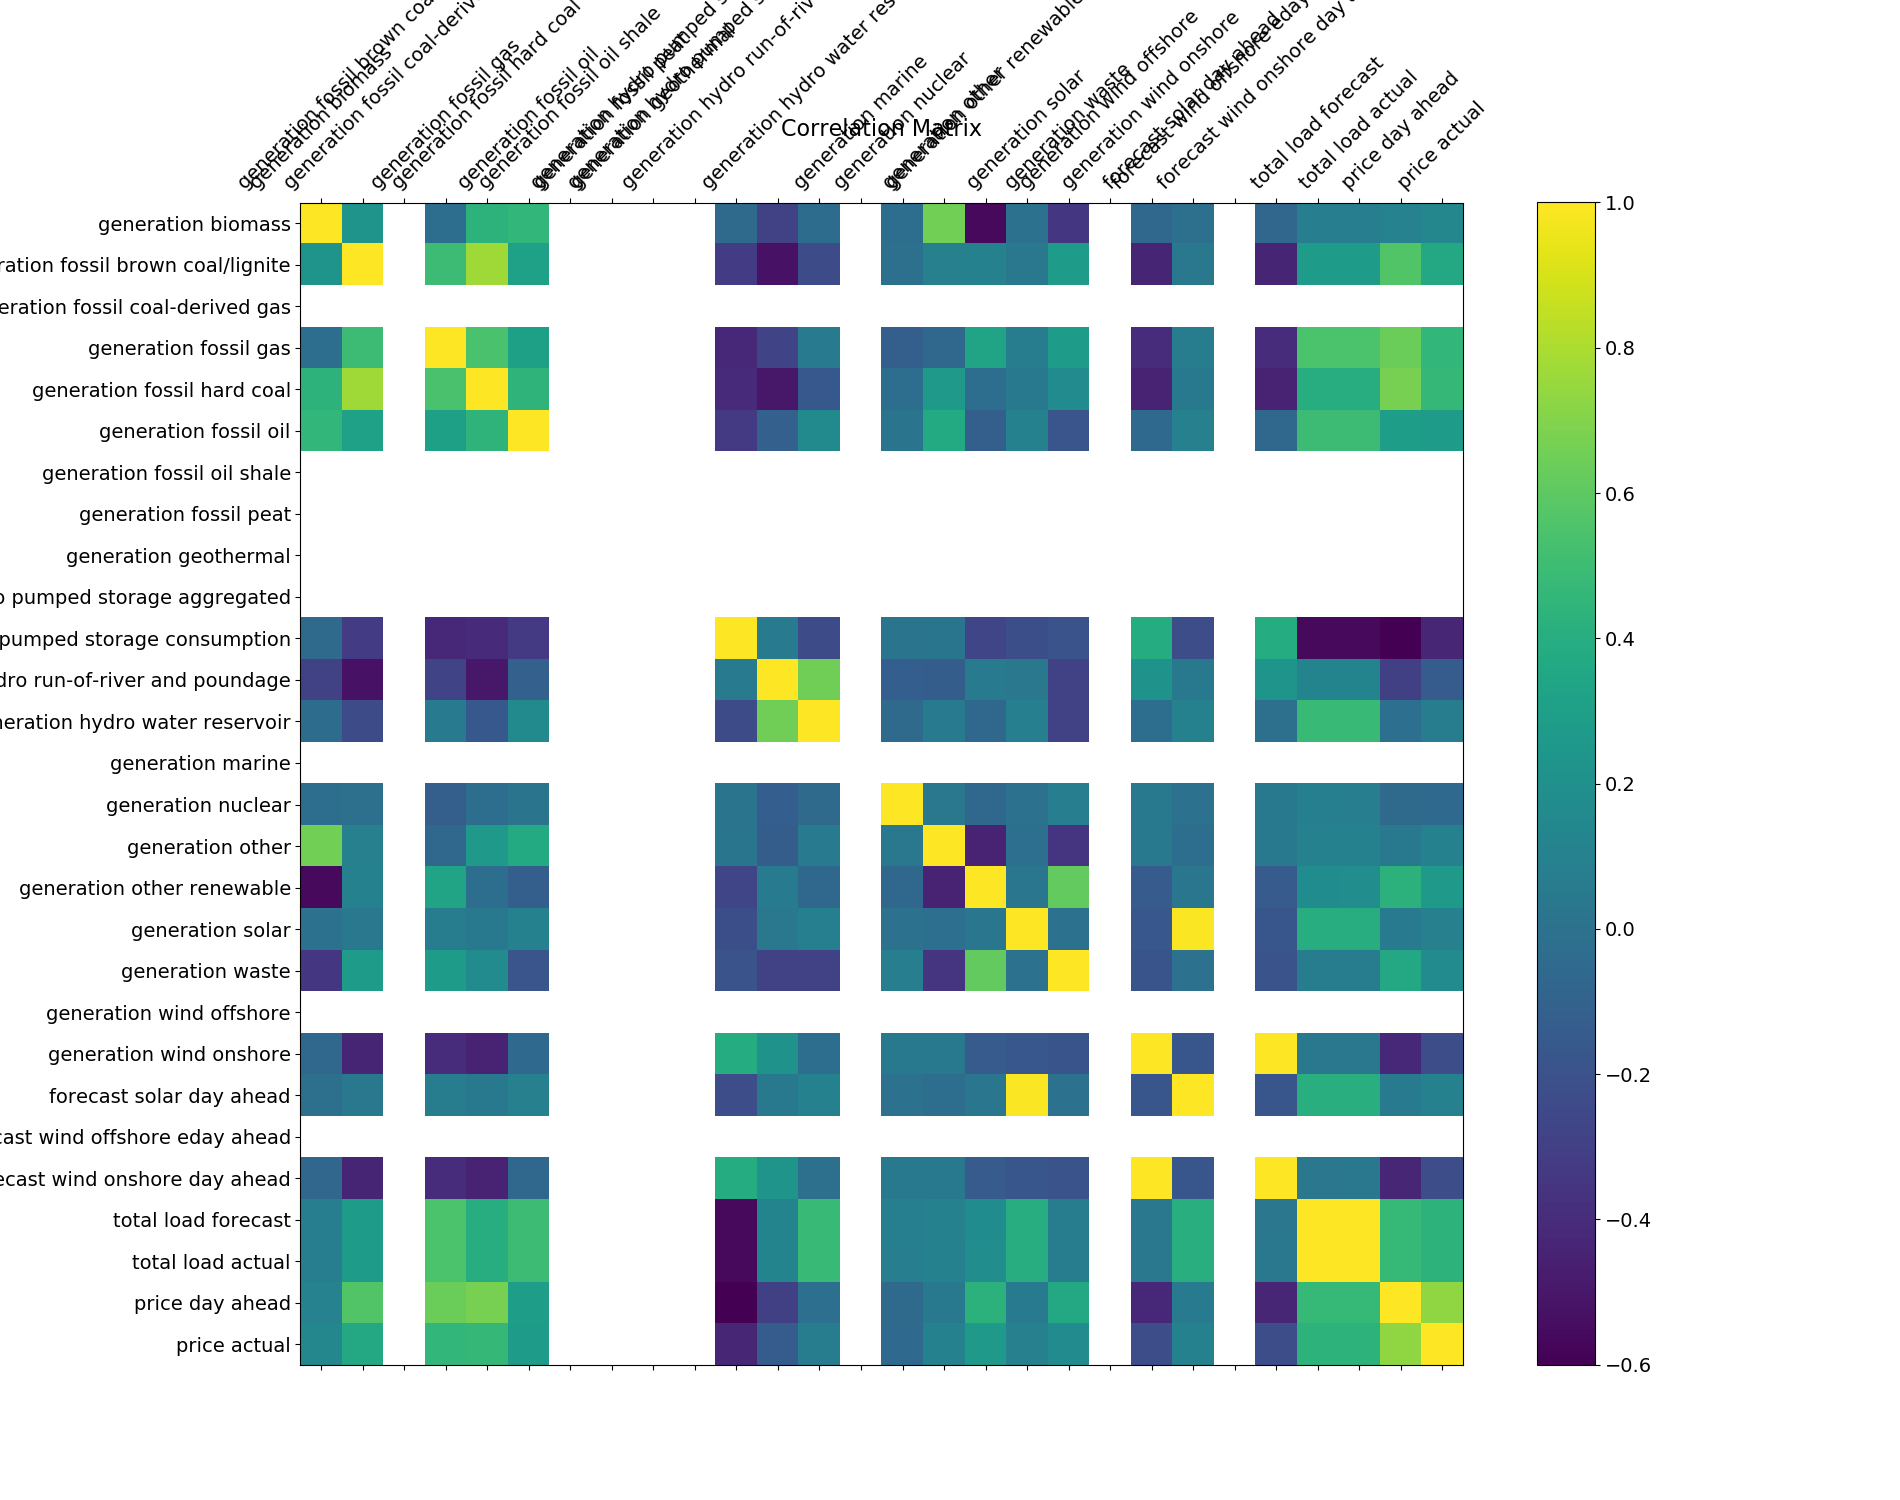
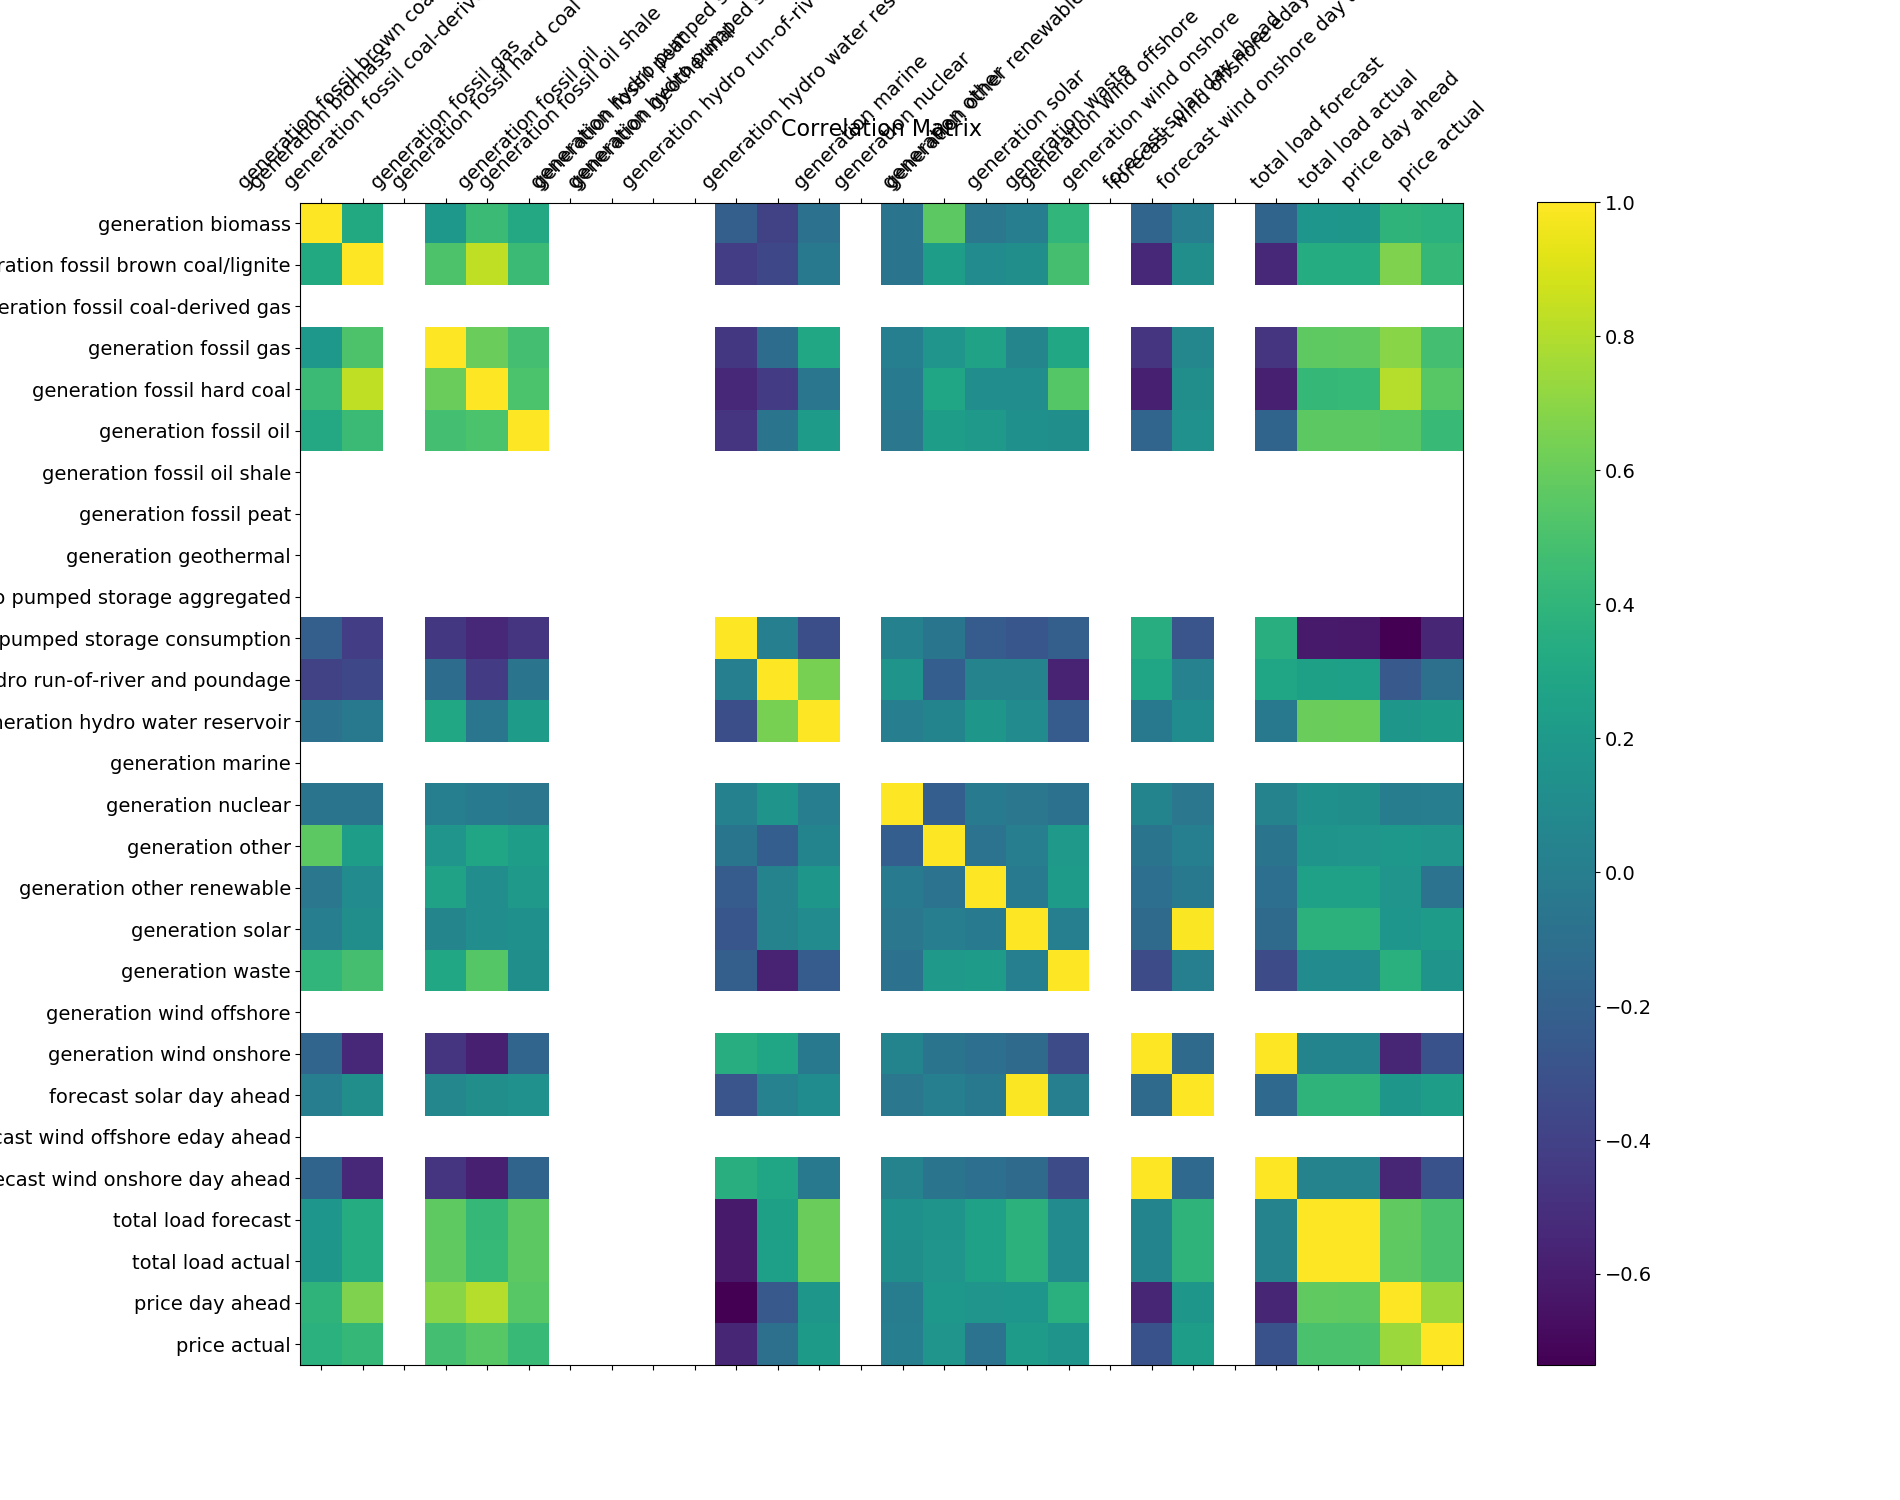
transformations

diff --git a/src/main_script.py b/src/main_script.py
@@ -1,7 +1,7 @@
 import pandas as pd
 import numpy as np
 import matplotlib
-matplotlib.use("Agg")
+# matplotlib.use("Agg")
 import matplotlib.pyplot as plt
 from sklearn.model_selection import train_test_split
 import importlib
@@ -37,17 +37,35 @@ if __name__ == '__main__':
     #make index a datetime object
     energy.reset_index()
     weather.reset_index()
+
+    plot_corr_matrix(energy.df)
+    plt.savefig('images/energy_corr.png')
+    # plt.show()
+    plt.close()
+    plot_corr_matrix(weather.df)
+    plt.savefig('images/weather_corr.png')
+    # plt.show()
+    plt.close()
     
+    # Transformations
     print('\nPerforming transformations')
+    weather_cols = ['weather_icon', 'weather_description', 'weather_main', 'weather_id']
+    weather.clean_categoricals(weather_cols)
+    energy_cols = []
+
+
+
     merged_df = energy.merge_dfs(weather.df)
     weather.consolidate('dt_iso')
     merged_by_date = energy.merge_dfs(weather.grouped_avg)
+    
 
-    print('Creating train, test, and holdout sets')
+
+    print('\nCreating train, test, and holdout sets')
     merged_by_date.getXy('price actual')
     merged_by_date.create_holdout()
 
-    print('\nWriting train, test, and holdouts to filesystem')
+    # print('\nWriting train, test, and holdouts to filesystem')
 
     train_test_split_holdout_list = [merged_by_date.X_train, merged_by_date.X_test, 
                                     merged_by_date.X_holdout, merged_by_date.y_train, 
@@ -56,28 +74,29 @@ if __name__ == '__main__':
     ttsh_filenames = ['X_train', 'X_test', 'X_holdout', 'y_train', 
                     'y_test', 'y_holdout']
 
-    for (i, fname) in zip(train_test_split_holdout_list, ttsh_filenames):
-            i.to_csv(f"data/{fname}.csv")
+
+    # Dont need to to this everytime I run the script for EDA
+    # for (i, fname) in zip(train_test_split_holdout_list, ttsh_filenames):
+    #         i.to_csv(f"data/{fname}.csv")
    
-    for (i, fname) in zip(train_test_split_holdout_list, ttsh_filenames):
-        i.to_csv(f's3://ajzcap2/{fname}.csv')
+    # for (i, fname) in zip(train_test_split_holdout_list, ttsh_filenames):
+    #     i.to_csv(f's3://ajzcap2/{fname}.csv')
    
 
     
-    # energy_df.merge(weather_df, right_index=True, left_index=True)  
 
-    # cities_gb = weather_df.groupby("dt_iso")
-    # cities_avg = cities_gb.mean()
+  
 
-    # plt.matshow(energy_df.corr())
+    
+    plot_corr_matrix(energy.df)
+    plt.savefig('images/clean_energy_corr.png')
     # plt.show()
-    # print('creating matrices')
-    # plot_corr_matrix(energy_df)
-    # plt.savefig('images/energy_corr.png')
-    # plt.close()
-    # plot_corr_matrix(weather_df)
-    # plt.savefig('images/weather_corr.png')
-    # plt.close()
+    plt.close()
+    plot_corr_matrix(weather.df)
+    plt.savefig('images/clean_weather_corr.png')
+    # plt.show()
+    plt.close()
+    
     print('all done.')
 
 

diff --git a/src/pipeline.py b/src/pipeline.py
@@ -55,7 +55,15 @@ class Pipeline(object):
         gb = self.df.groupby(group_on)
         self.grouped_avg = gb.mean()
         return
-        
+
+    def clean_categoricals(self, cols):
+        'takes a list of columns to make dummies and drop from the df'
+        for i in cols:
+            dummies = pd.get_dummies(i)
+            pd.concat([self.df, dummies], axis=1)
+            self.df.drop(i)
+
+
 
     def create_holdout(self):
         X_cv, self.X_holdout, y_cv, self.y_holdout = train_test_split(self.X,self.y)

diff --git a/README.md b/README.md
@@ -1,1 +1,25 @@
 # capstone2
+
+
+weather_icon
+array(['01n', '01d', '01', '02n', '02d', '02', '03', '04n', '04', '10n',
+       '03n', '10', '04d', '03d', '10d', '50d', '09n', '11d', '11n',
+       '09d', '50n'], dtype=object)
+
+weather_description
+array(['sky is clear', 'few clouds', 'scattered clouds', 'broken clouds',
+       'overcast clouds', 'light rain', 'moderate rain',
+       'heavy intensity rain', 'mist', 'heavy intensity shower rain',
+       'shower rain', 'very heavy rain', 'thunderstorm with heavy rain',
+       'thunderstorm with light rain', 'thunderstorm with rain',
+       'proximity thunderstorm', 'thunderstorm',
+       'light intensity shower rain', 'light intensity drizzle', 'fog'],
+      dtype=object)
+
+weather_main
+array(['clear', 'clouds', 'rain', 'mist', 'thunderstorm', 'drizzle',
+       'fog'], dtype=object)
+
+weather_id
+array([800, 801, 802, 803, 804, 500, 501, 502, 701, 522, 521, 503, 202,
+       200, 201, 211, 520, 300, 741])
